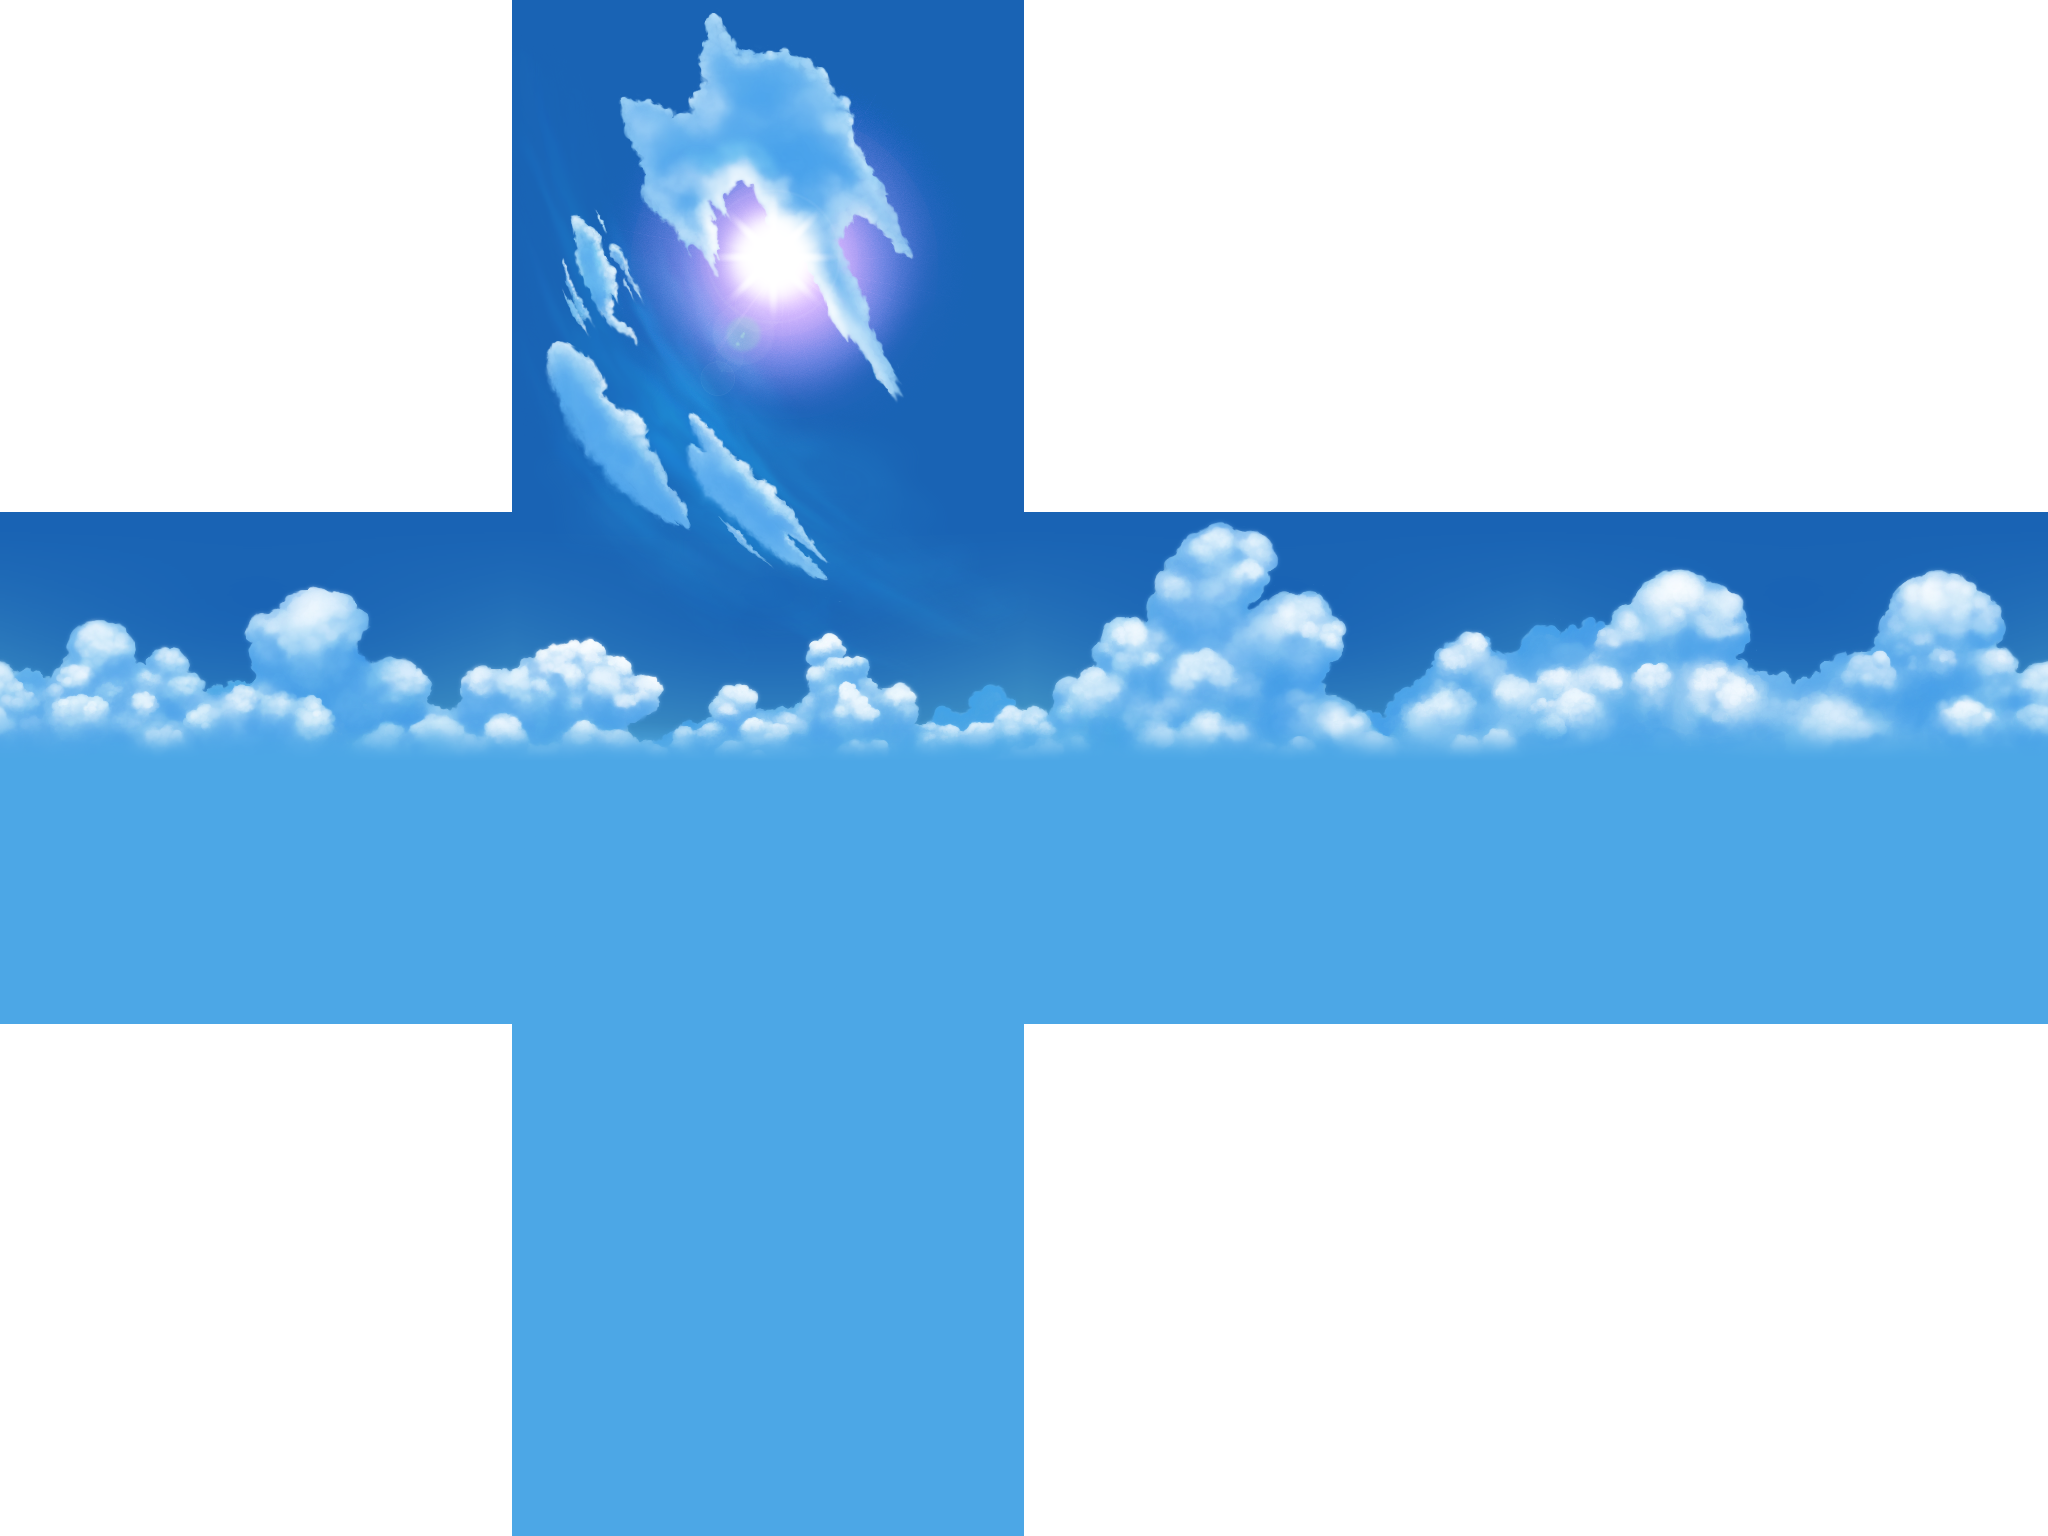
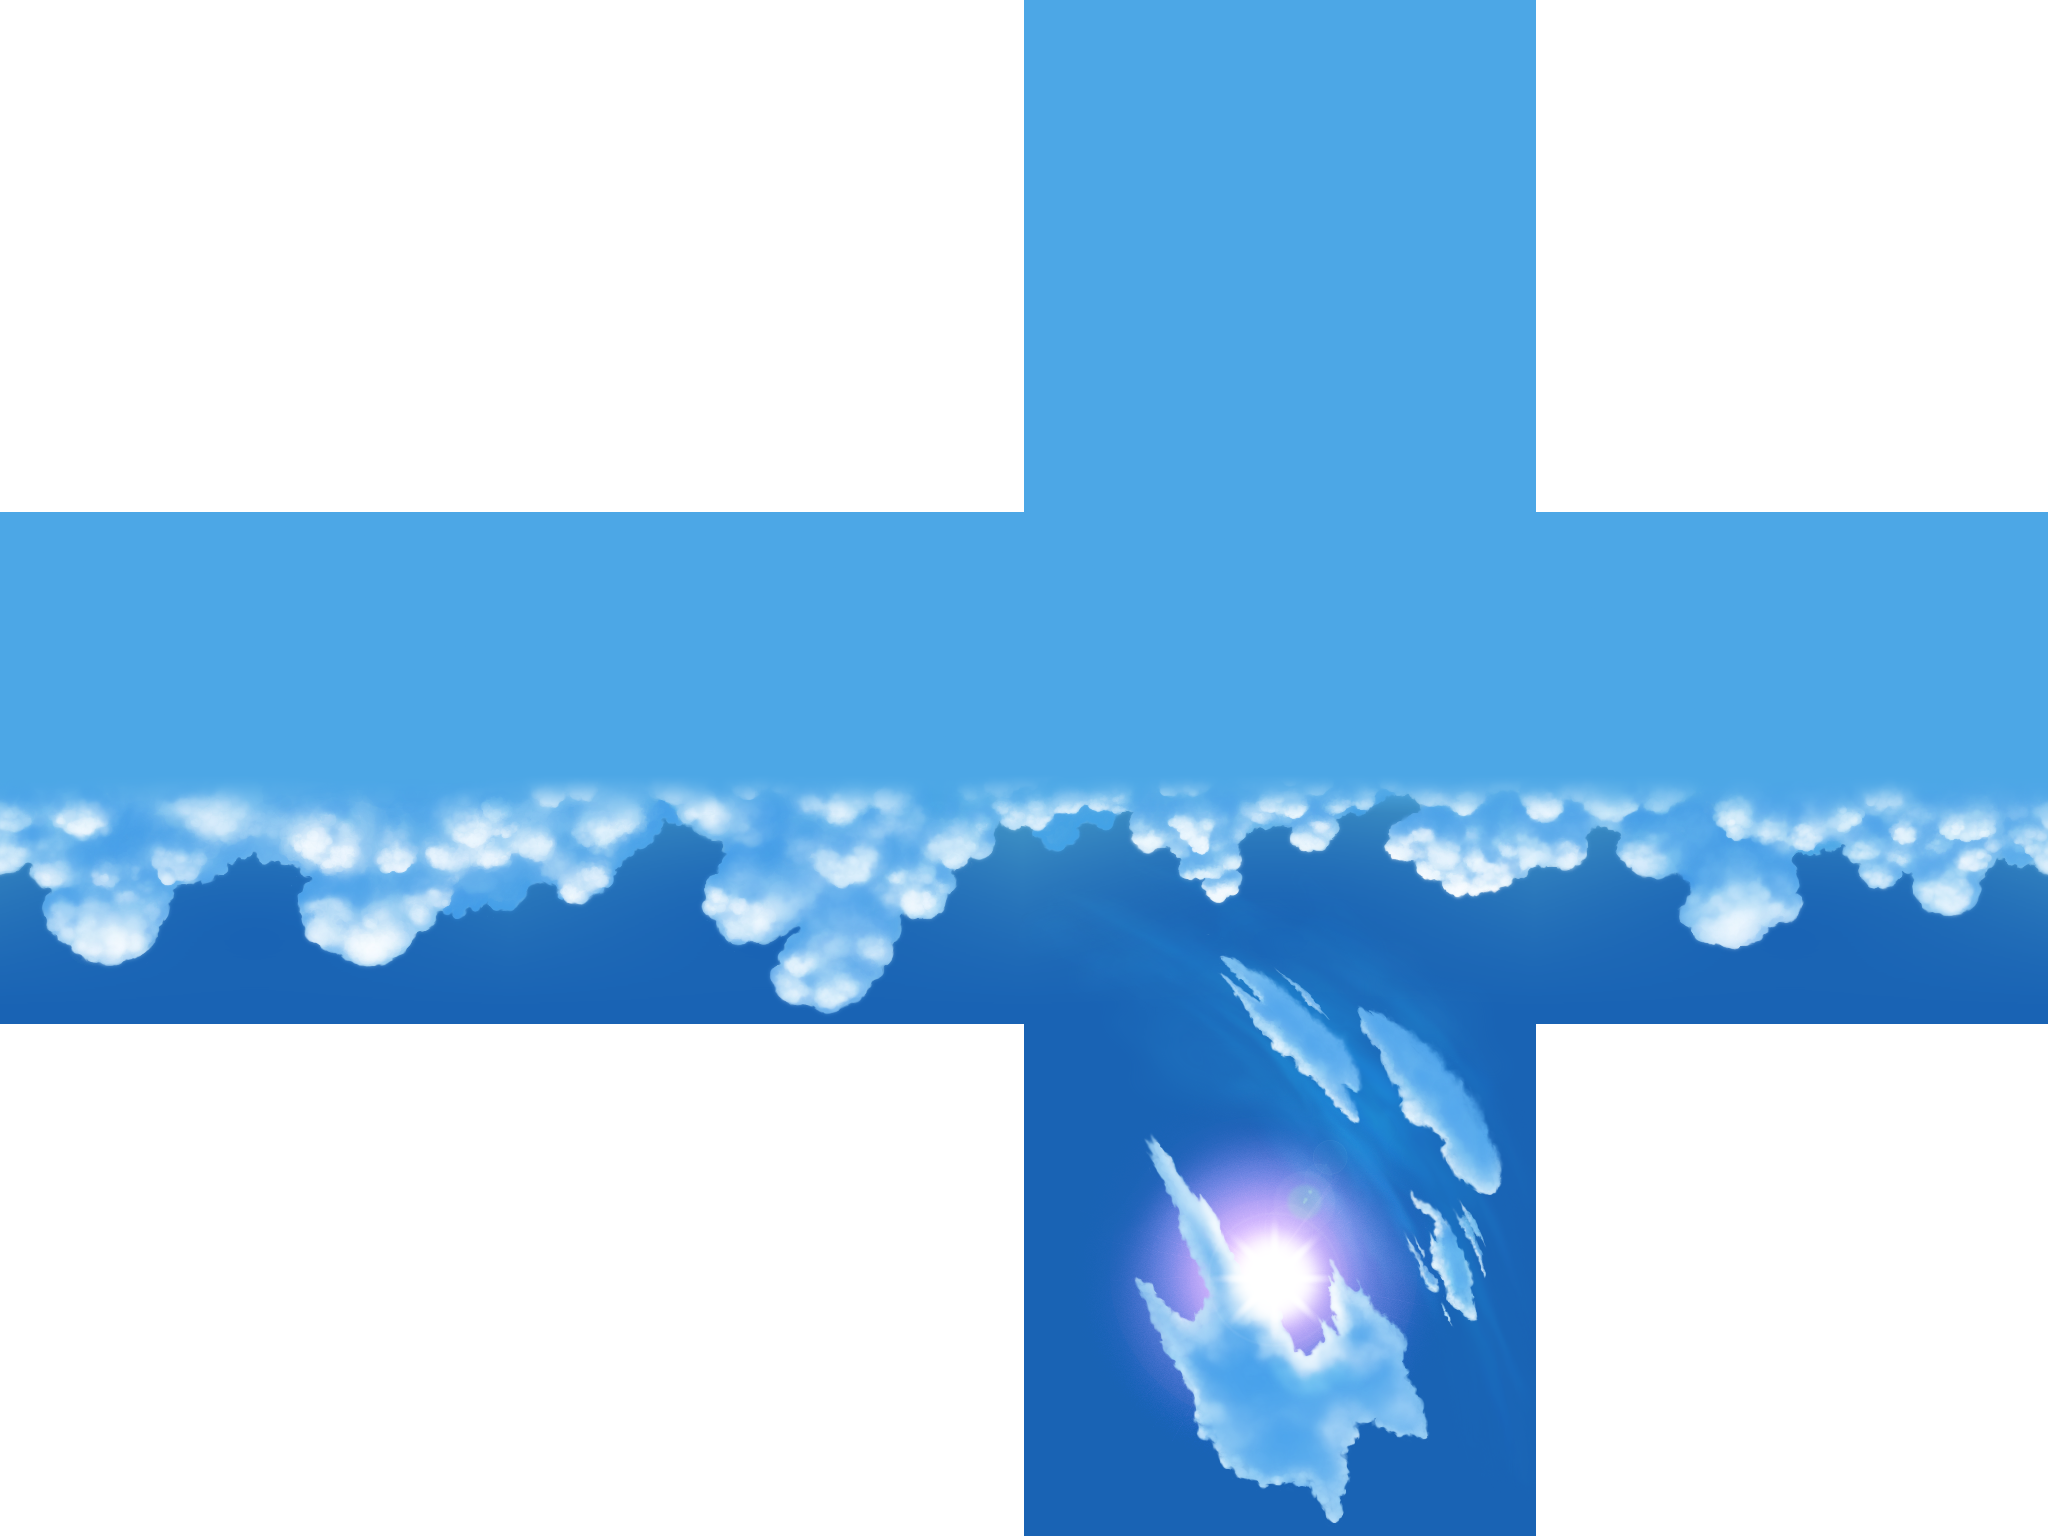
FINISHED DA FUCKIN SKYBOX

diff --git a/yocto/minicraft/src/skybox.h b/yocto/minicraft/src/skybox.h
@@ -11,6 +11,9 @@ public:
 	YTexManager* texture_manager;
 	YTexFile* skybox;
 
+	float width = 1.0 / 4.0;
+	float height = 1.0 / 3.0;
+
 	GLuint ShaderSkybox = 0;
 
 	YSkybox(YRenderer* Renderer)
@@ -45,15 +48,15 @@ public:
 		YVec3f g(-size / 2.0f + x, size / 2.0f + y, size / 2.0f + z);
 		YVec3f h(-size / 2.0f + x, -size / 2.0f + y, size / 2.0f + z);
 
-		iVertice += CreateSquareFace(vbo, iVertice, a, b, c, d); //x+
-		iVertice += CreateSquareFace(vbo, iVertice, f, e, h, g); //x-
-		iVertice += CreateSquareFace(vbo, iVertice, b, f, g, c); //y+
-		iVertice += CreateSquareFace(vbo, iVertice, e, a, d, h); //y-
-		iVertice += CreateSquareFace(vbo, iVertice, c, g, h, d); //z+
-		iVertice += CreateSquareFace(vbo, iVertice, e, f, b, a); //z-
+		iVertice += CreateSquareFace(vbo, iVertice, a, b, c, d, 0.0, 1.0); //x+
+		iVertice += CreateSquareFace(vbo, iVertice, f, e, h, g, 2.0, 1.0); //x-
+		iVertice += CreateSquareFace(vbo, iVertice, b, f, g, c, 1.0, 1.0); //y+
+		iVertice += CreateSquareFace(vbo, iVertice, e, a, d, h, 3.0, 1.0); //y-
+		iVertice += CreateSquareFace(vbo, iVertice, c, g, h, d, 2.0, 2.0); //z+
+		iVertice += CreateSquareFace(vbo, iVertice, e, f, b, a, 2.0, 0.0); //z-
 	}
 
-	int CreateSquareFace(YVbo* vbo, int iVertice, YVec3f& a, YVec3f& b, YVec3f& c, YVec3f& d)
+	int CreateSquareFace(YVbo* vbo, int iVertice, YVec3f& a, YVec3f& b, YVec3f& c, YVec3f& d, float uvx, float uvy)
 	{
 		YVec3f normal = (b - a).cross(d - a);
 		normal.normalize();
@@ -63,39 +66,42 @@ public:
 		//
 		// D   C
 
+		float uvX = uvx * width;
+		float uvY = uvy * height;
+
 		vbo->setElementValue(0, iVertice, a.X, a.Y, a.Z);
 		vbo->setElementValue(1, iVertice, normal.X, normal.Y, normal.Z, 1);
-		vbo->setElementValue(2, iVertice, 0, 0);
+		vbo->setElementValue(2, iVertice, uvX, uvY);
 
 		iVertice++;
 
 		vbo->setElementValue(0, iVertice, b.X, b.Y, b.Z);
 		vbo->setElementValue(1, iVertice, normal.X, normal.Y, normal.Z, 1);
-		vbo->setElementValue(2, iVertice, 1, 0);
+		vbo->setElementValue(2, iVertice, uvX + 1 * width, uvY);
 
 		iVertice++;
 
 		vbo->setElementValue(0, iVertice, c.X, c.Y, c.Z);
 		vbo->setElementValue(1, iVertice, normal.X, normal.Y, normal.Z, 1);
-		vbo->setElementValue(2, iVertice, 1, 1);
+		vbo->setElementValue(2, iVertice, uvX + 1 * width, uvY + 1 * height);
 
 		iVertice++;
 
 		vbo->setElementValue(0, iVertice, a.X, a.Y, a.Z);
 		vbo->setElementValue(1, iVertice, normal.X, normal.Y, normal.Z, 1);
-		vbo->setElementValue(2, iVertice, 0, 0);
+		vbo->setElementValue(2, iVertice, uvX, uvY);
 
 		iVertice++;
 
 		vbo->setElementValue(0, iVertice, c.X, c.Y, c.Z);
 		vbo->setElementValue(1, iVertice, normal.X, normal.Y, normal.Z, 1);
-		vbo->setElementValue(2, iVertice, 1, 1);
+		vbo->setElementValue(2, iVertice, uvX + 1 * width, uvY + 1 * height);
 
 		iVertice++;
 
 		vbo->setElementValue(0, iVertice, d.X, d.Y, d.Z);
 		vbo->setElementValue(1, iVertice, normal.X, normal.Y, normal.Z, 1);
-		vbo->setElementValue(2, iVertice, 0, 1);
+		vbo->setElementValue(2, iVertice, uvX, uvY + 1 * height);
 
 		iVertice++;
 
